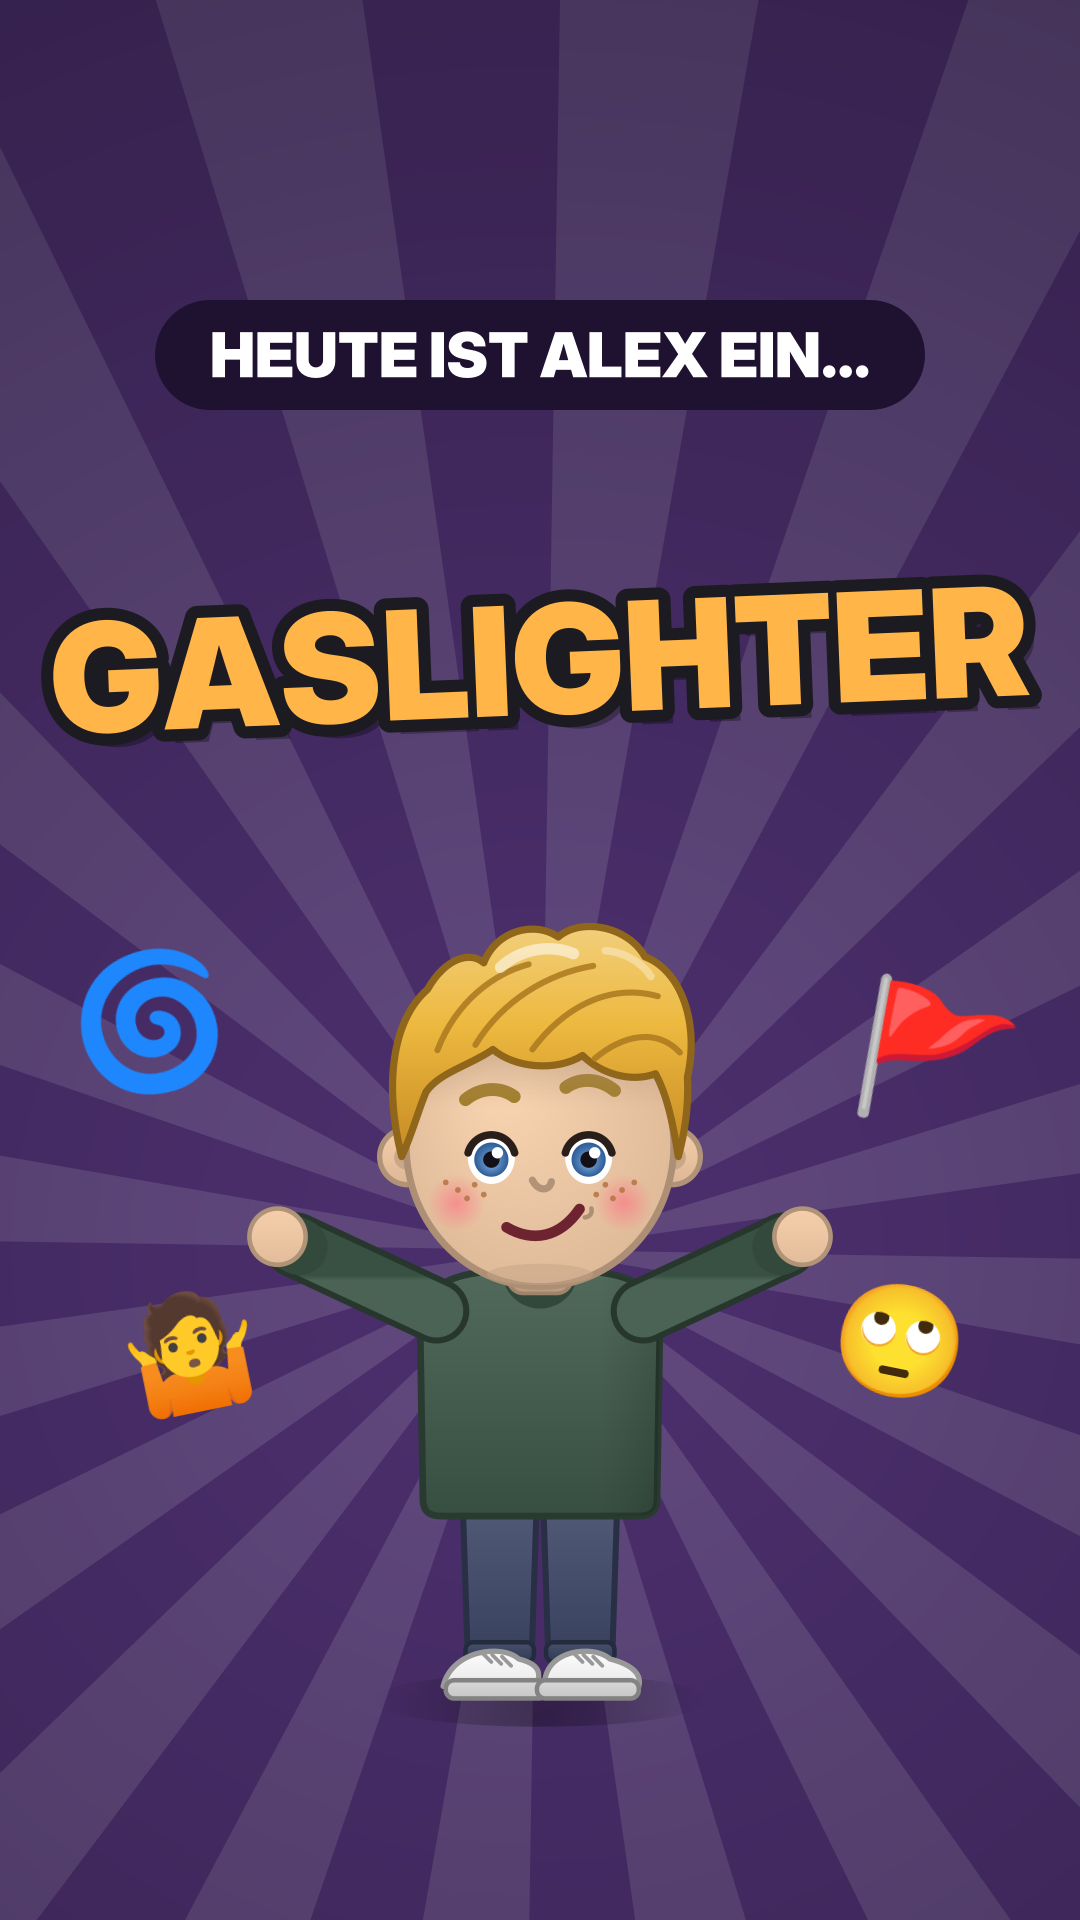
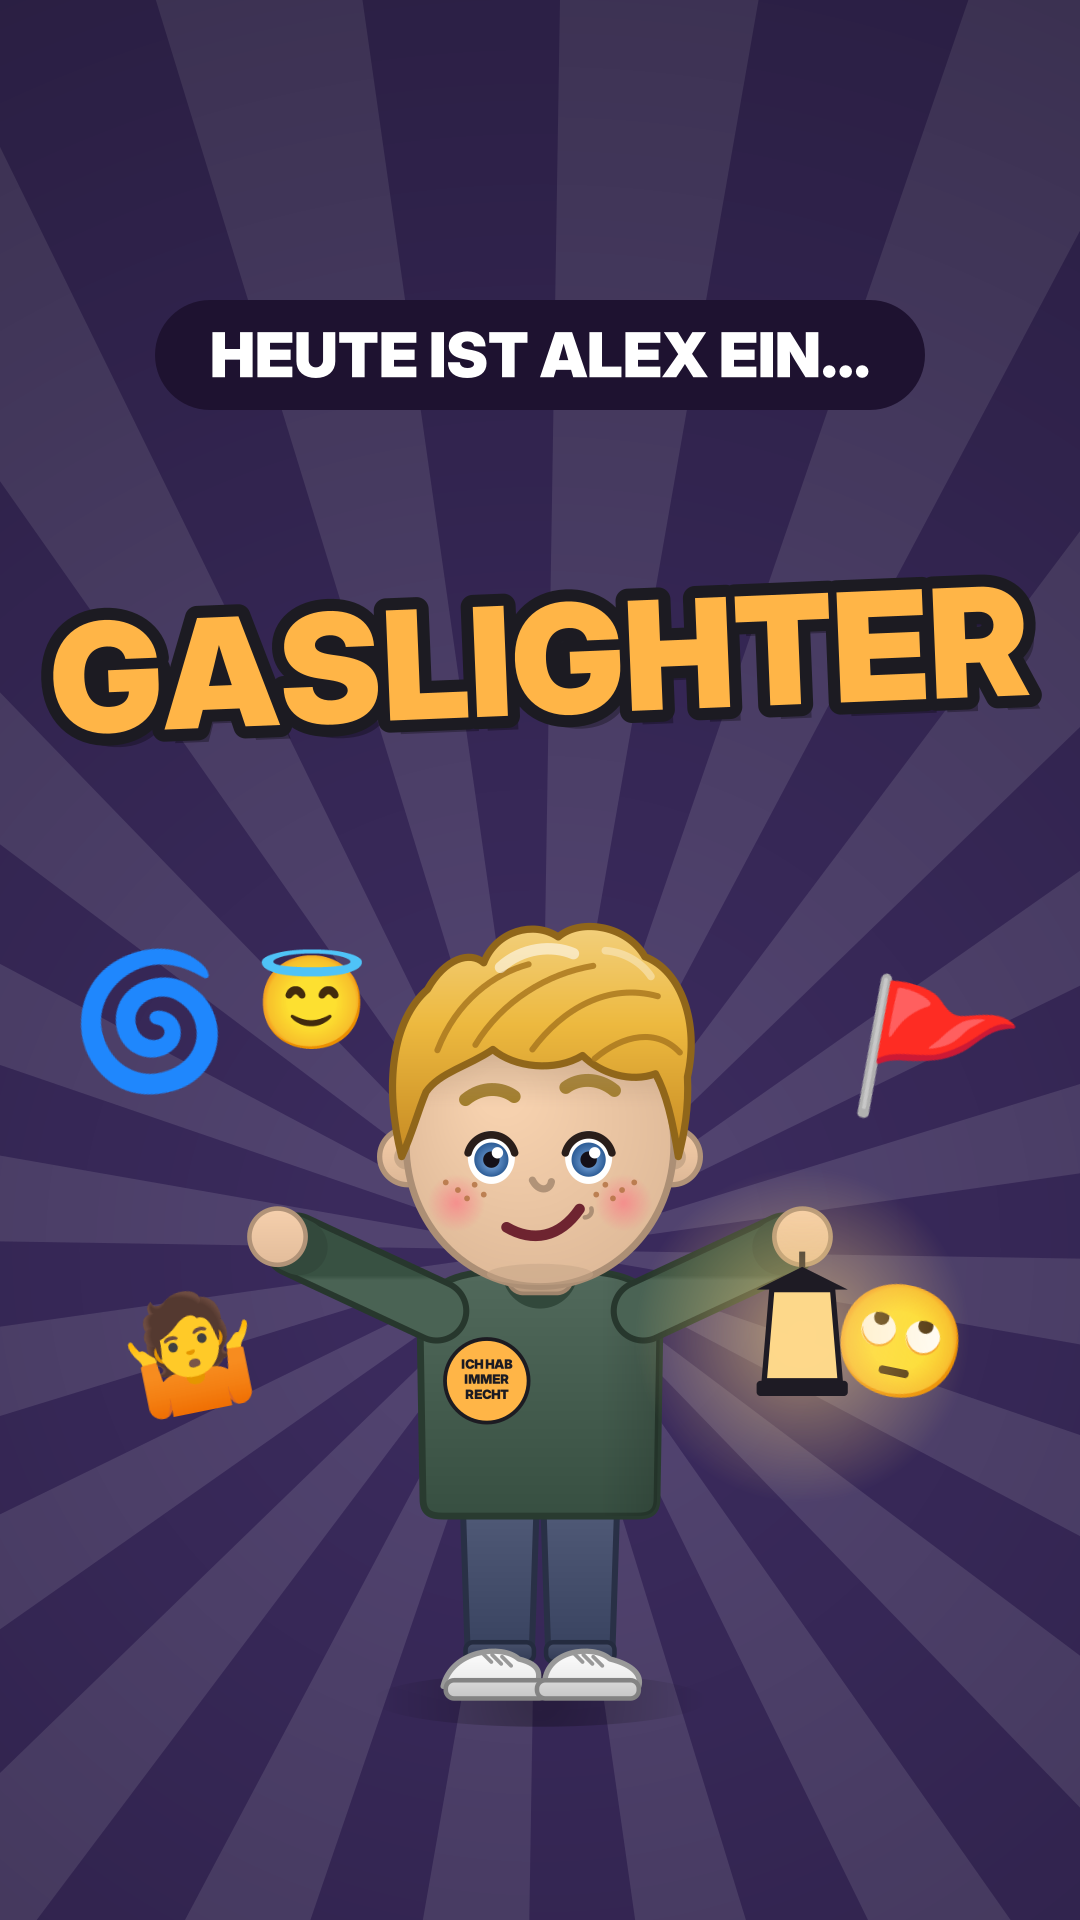
Gaslighter: Thumbnail mit Alex-Outfit, neue Beschreibung
Claude-Session: https://claude.ai/code/session_01McNdgbYmUv6wbiJiuvHZgk

Changed region(s): [[0.6111, 0.625, 0.8556, 0.7812], [0.2444, 0.4688, 0.3361, 0.5625], [0.3972, 0.6875, 0.4889, 0.75]]

diff --git a/episodes/09_gaslighter/script.py b/episodes/09_gaslighter/script.py
@@ -46,8 +46,8 @@ SHUFFLE = [
 ]
 
 # Cover: Anordnung wie Pick-me-Boy, Farben zum Thema (verwirrendes Lila, Gaslampen-Orange)
-THUMB = dict(head="HEUTE IST ALEX EIN…", l1="", l2="GASLIGHTER", bg="#4A2E6B", accent="#FFB547",
-             pill="#1E1230", pill_text="#FFFFFF", expr="smug", pose="shrug", prop=None,
+THUMB = dict(head="HEUTE IST ALEX EIN…", l1="", l2="GASLIGHTER", bg="#3A2A5C", accent="#FFB547",
+             pill="#1E1230", pill_text="#FFFFFF", expr="smug", pose="shrug", prop=None, extras=True,
              emojis=("🌀", "🚩", "🤷", "🙄"))
 
 SCENES = [

diff --git a/branding/tiktok_texte.md b/branding/tiktok_texte.md
@@ -96,13 +96,12 @@ Friedrich Merz 🎙 Fliegt selbst zum Bäcker 🛩🥐, jedes Thema endet 
 
 ## TikTok Folge 3 – Gaslighter
 Cover: `episodes/09_gaslighter/thumbnail.png`
-Stimme: exakt wie Folge 1 (gemini-3.8-flash-tts, Puck, gleiche Regieanweisung)
 
 Beschreibung (beginnt mit der Rolle, weil „Alex ist heute:“ davorsteht):
 
-ein Gaslighter 🌀 „Das hab ich nie gesagt.“ – „Du bist zu empfindlich.“ – „Du bildest dir das ein.“ 🚩 Welchen Satz hast du schon mal gehört? 👇 Kennst du jemanden, der auch immer sagt „Das hab ich nie gesagt“? Markier sie oder ihn! Und was soll Alex morgen sein? 🤍
+ein Gaslighter 🌀 Er vergisst dich abzuholen – und plötzlich wolltest DU den Bus nehmen 🤷 Du zeigst ihm seine Nachricht? „Hast du falsch verstanden.“ 🙄 Welchen dieser Sätze hast du schon mal gehört? 1, 2, 3 oder 4? 👇 Kennst du jemanden, der auch immer sagt „Das hab ich nie gesagt“? Markier sie oder ihn! 🤍 Und was soll Alex morgen sein?
 
-#gaslighting #redflags #toxischebeziehung #beziehung #selbstwert #relatable #fürdich #fyp
+#gaslighting #redflags #toxischebeziehung #beziehung #selbstwert #relatable #storytime #fürdich #fyp
 
 ## TikTok Folge 3 – Fake-Feminist
 Cover: `episodes/10_fake_feminist/thumbnail.png`
